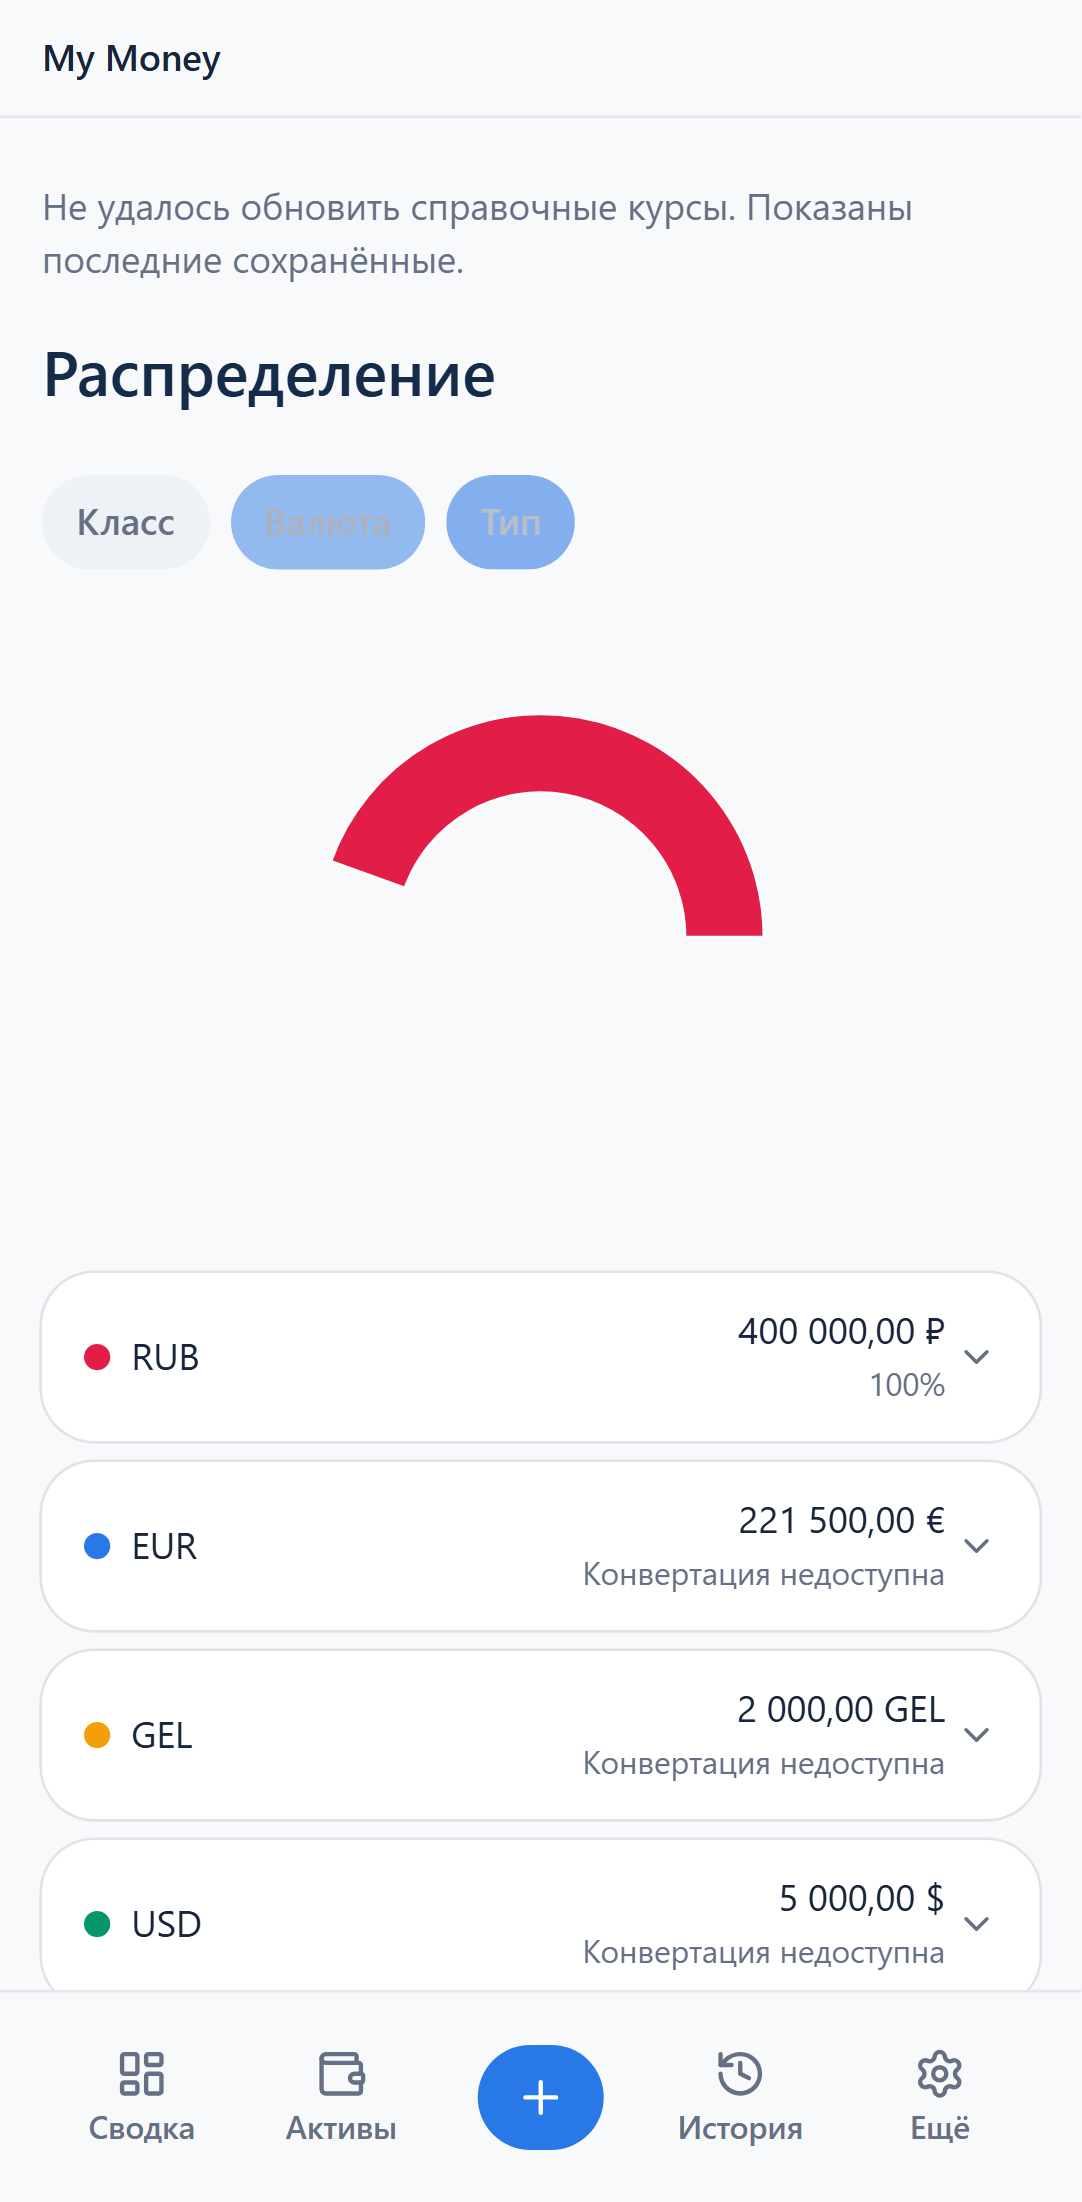
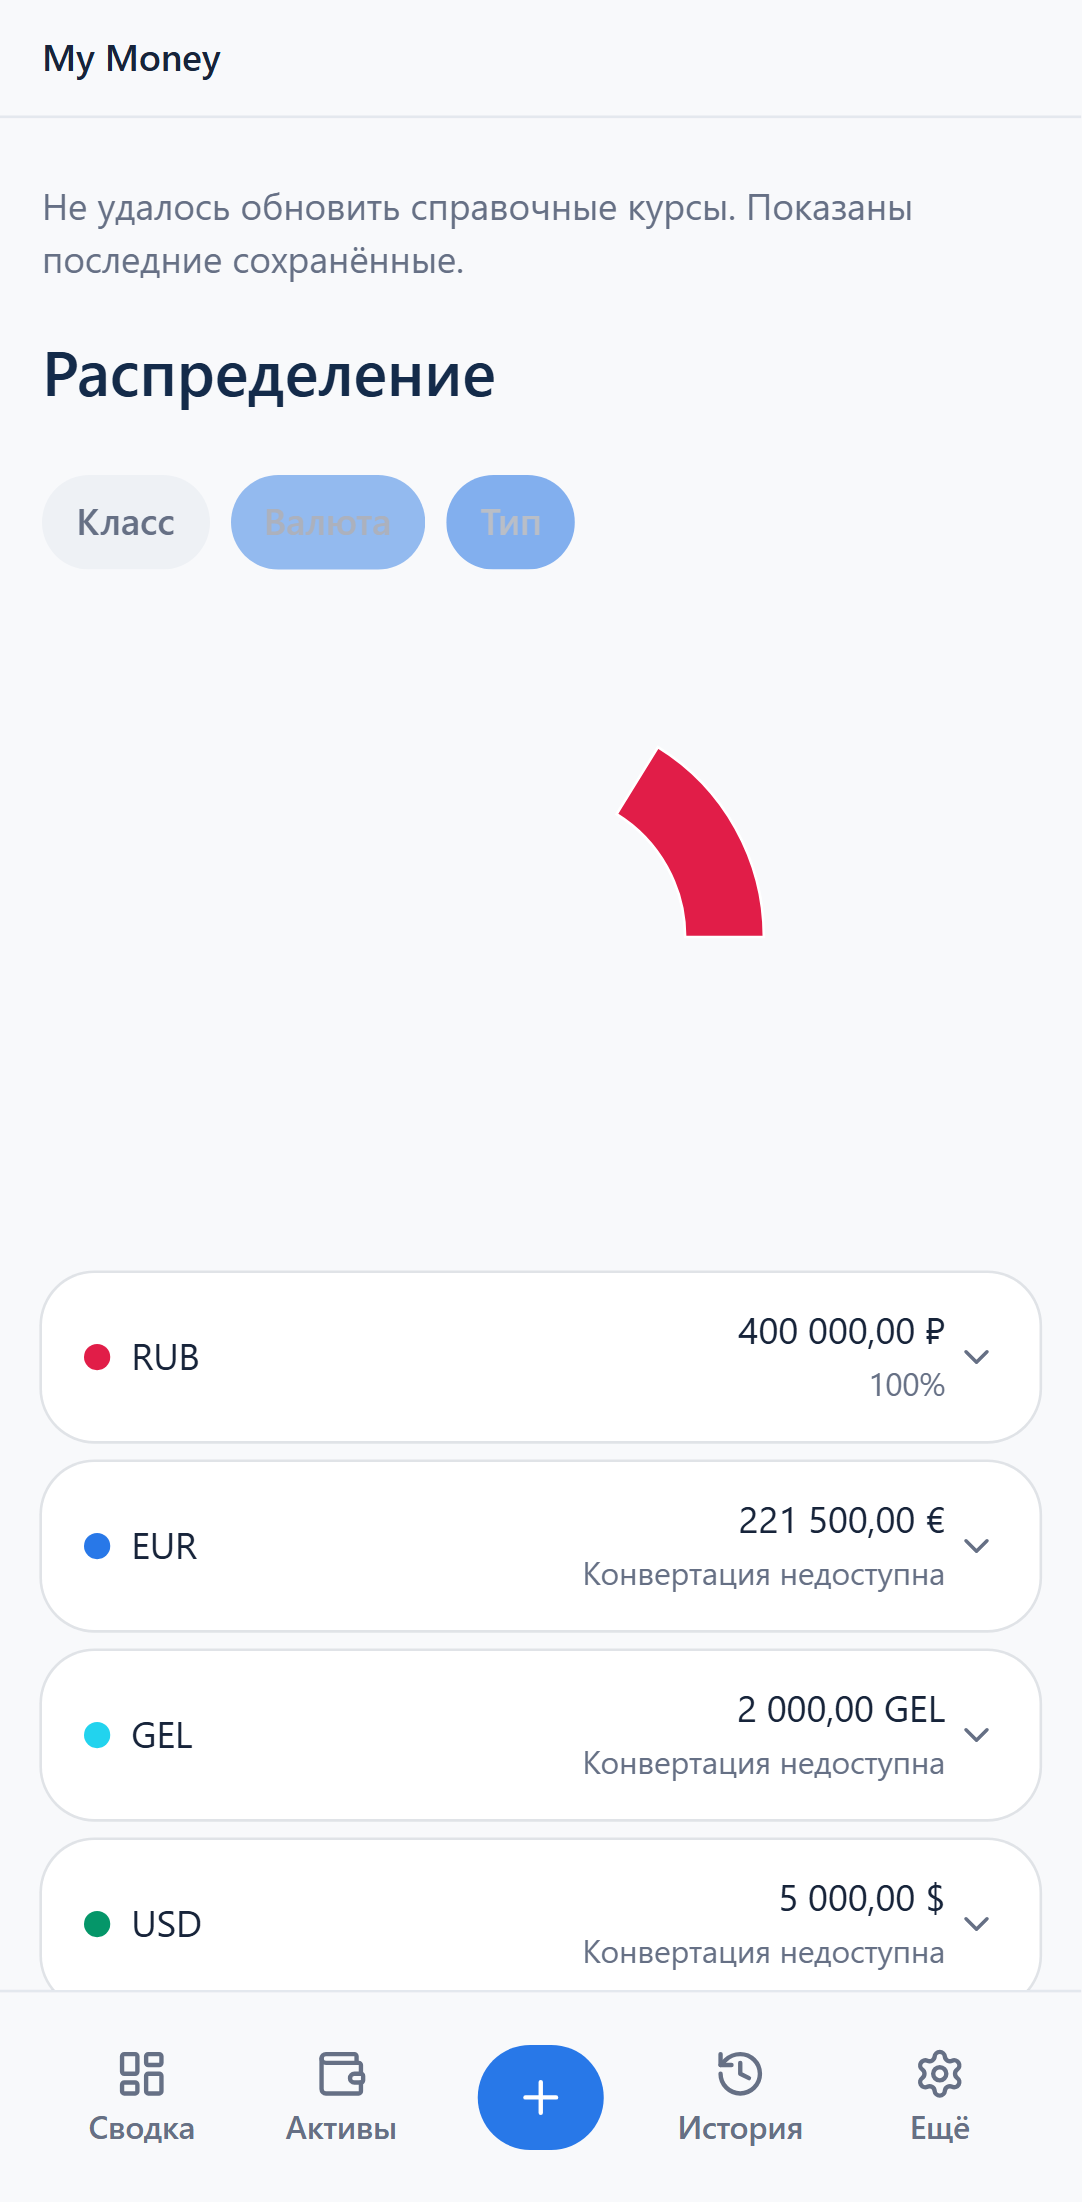
#269: replace yellow cash/GEL slices with green and cyan.

Changed region(s): [[0.305, 0.3088, 0.61, 0.4015], [0.061, 0.772, 0.122, 0.8029]]

diff --git a/src/data/issueRcas.ts b/src/data/issueRcas.ts
@@ -43,8 +43,8 @@ export const issueRcas: IssueRca[] = [
       en: 'Assets: distinct colors for distribution graph sectors',
       ru: 'Активы: разные цвета секторов на графике распределения',
     },
-    en: '#255 colored by class id, so Type collapsed cash/deposit/bank to one blue. First pass gave each type a token. On-device still: bank≈debit_card, apartment≈house, USD≈EUR, RUB≈GEL. Second pass: high-contrast Type hues (magenta debit, teal house) and chart currencies (green USD, rose RUB, amber GEL).',
-    ru: '#255 красил по классу — в «Тип» наличные/вклад/счёт были одним синим. Первый проход: токен на тип. На устройстве всё ещё: счёт≈карта, квартира≈дом, USD≈EUR, RUB≈GEL. Второй: контрастные типы (маджента карта, бирюза дом) и валюты (зелёный USD, розовый RUB, янтарный GEL).',
+    en: '#255 colored by class id, so Type collapsed cash/deposit/bank to one blue. First pass gave each type a token. On-device still: bank≈debit_card, apartment≈house, USD≈EUR, RUB≈GEL. Second pass: high-contrast Type hues (magenta debit, teal house) and chart currencies (green USD, rose RUB, amber GEL). Third: drop yellow cash/GEL — cash light green, GEL cyan.',
+    ru: '#255 красил по классу — в «Тип» наличные/вклад/счёт были одним синим. Первый проход: токен на тип. На устройстве всё ещё: счёт≈карта, квартира≈дом, USD≈EUR, RUB≈GEL. Второй: контрастные типы (маджента карта, бирюза дом) и валюты (зелёный USD, розовый RUB, янтарный GEL). Третий: убрать жёлтый у наличных/GEL — наличные светло-зелёные, GEL бирюзовый.',
   },
   {
     issue: 268,

diff --git a/test/designSystemTokens.test.ts b/test/designSystemTokens.test.ts
@@ -30,7 +30,7 @@ describe('DESIGN_SYSTEM tokens (#255)', () => {
     expect(token(root, 'positive')).toBe('#16a878')
     expect(token(root, 'asset-liabilities')).toBe('#e05252')
     expect(token(root, 'asset-bank')).toBe('#2878e8')
-    expect(token(root, 'asset-cash')).toBe('#f2a51a')
+    expect(token(root, 'asset-cash')).toBe('#4ade80')
     expect(token(root, 'asset-vehicles')).toBe('#20b89a')
     expect(token(root, 'asset-crypto')).toBe('#f7931a')
     expect(token(root, 'asset-other')).toBe('#667085')
@@ -41,7 +41,7 @@ describe('DESIGN_SYSTEM tokens (#255)', () => {
     expect(token(root, 'currency-eur')).toBe('#2878e8')
     expect(token(root, 'currency-usd')).toBe('#059669')
     expect(token(root, 'currency-rub')).toBe('#e11d48')
-    expect(token(root, 'currency-gel')).toBe('#f59e0b')
+    expect(token(root, 'currency-gel')).toBe('#22d3ee')
     expect(token(root, 'primary')).toBe('var(--action)')
     expect(token(root, 'chart-investments')).toBe('var(--asset-investments)')
     expect(css).toContain('--color-heading: var(--heading)')

diff --git a/src/data/releaseNotes.ts b/src/data/releaseNotes.ts
@@ -10,6 +10,13 @@ export interface ReleaseNote {
 /** User-facing changelog, most-recent-first. Add a row when an issue ships. */
 export const releaseNotes: ReleaseNote[] = [
   {
+    version: 244,
+    issue: 269,
+    date: '2026-09-14T21:20:00+03:00',
+    en: 'Allocation no longer uses yellow for cash (or GEL): cash is light green, GEL is cyan, so slices stay easy to tell apart.',
+    ru: 'В распределении больше нет жёлтого у наличных (и GEL): наличные — светло-зелёные, GEL — бирюзовый, доли проще различать.',
+  },
+  {
     version: 243,
     issue: 272,
     date: '2026-09-14T21:15:00+03:00',

diff --git a/src/index.css b/src/index.css
@@ -25,7 +25,7 @@
   --positive: #16a878;
   --asset-money: #2878e8;
   --asset-investments: #16a878;
-  --asset-cash: #f2a51a;
+  --asset-cash: #4ade80;
   --asset-property: #7656d6;
   --asset-valuables: #a45bc7;
   --asset-liabilities: #e05252;
@@ -57,7 +57,7 @@
   --currency-usd: #059669;
   --currency-gbp: #7c3aed;
   --currency-rub: #e11d48;
-  --currency-gel: #f59e0b;
+  --currency-gel: #22d3ee;
   --currency-btc: #f7931a;
   --currency-usdt: #26a17b;
   --primary: var(--action);
